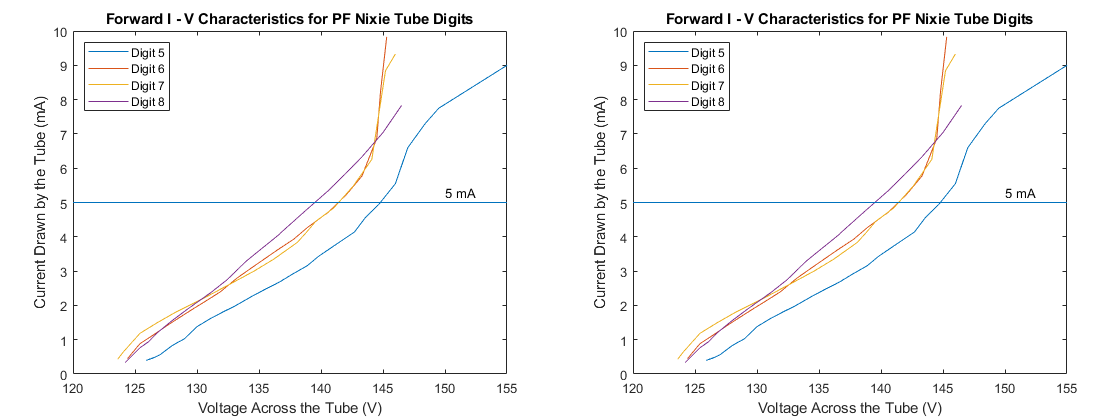
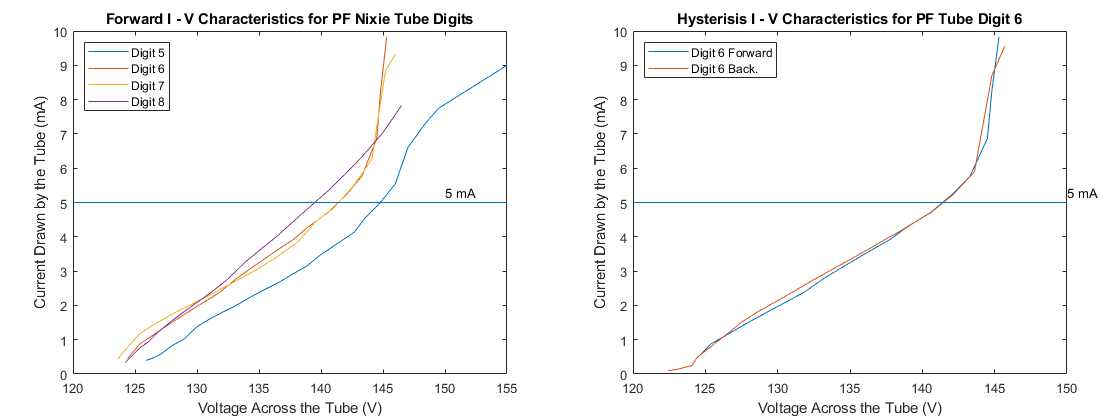
added blog post

diff --git a/_site/blog/nixieClock.html b/_site/blog/nixieClock.html
@@ -83,7 +83,7 @@
 			<i><p style="font-size:16px;color:Gray">Reading Time: <span class="reading-time" title="Estimated read time">
   
   
-    4 mins
+    5 mins
   
 </span>
 
@@ -151,21 +151,31 @@ This is the case since the feasibility of powering the clock from a computers US
 
 <p>In an initial experiment we blew out the 0 digit of a Nixie Tube due to our faulty method of recording its I-V characteristics. We didn’t include with the tube a current limiting series resistor. This caused a current overload through the 0 digit cathode rendering it useless. This tube is referred to as partially faulty (PF).</p>
 
-<p>We thought it would be an interesting exercise to observe if a problem with one cathode affected the I-V characteristics of any other digit. Based on comparisons with the data from the correct tube mentioned above, and the collated plot on the left, we can conclude that damage to one digit’s cathode does not affect the performance of other digits.</p>
+<p>We thought it would be an interesting exercise to observe if a problem with one cathode affected the I-V characteristics of any other digit. Based on comparisons with the data from the correct tube mentioned above, and the plot on the right comparing I-V characteristics for digit 6, we can conclude that damage to one digit’s cathode does not affect the performance of other digits.</p>
 
 <h4 id="hysterisis"><strong>Hysterisis</strong></h4>
-<p>In addition to the forward I-V characteristics (Increasing voltage) we also performed the retreating I-V characteristics. The retreating characteristics involved decreasing the voltage down from the highest V reading to the turn off voltage. We were inclined to document this behaviour since the tubes were seen showing <a href="https://en.wikipedia.org/wiki/Hysteresis">Hysteresis</a>.</p>
+<p align="center">
+  <img src="/assets/images/hyst.png" alt="Hyst1" height="300" />
+</p>
+<p align="center">
+  <img src="/assets/images/figure6.png" alt="Hyst2" height="300" />
+</p>
+
+<p>In addition to the forward I-V characteristics (Increasing voltage) we also performed retreating I-V characteristics. The retreating characteristics involved decreasing the voltage down from the highest V reading to the turn off voltage. We were inclined to document this behaviour since the tubes were seen showing <a href="https://en.wikipedia.org/wiki/Hysteresis">Hysteresis</a>.</p>
+
+<p>This means that the current requirement for a particular digit can be different depending on whether we are moving forward from the turn on voltage or decreasing the voltage applied. That being said, the current difference is quite low, in the (μA) range.</p>
 
 <h4 id="precious-tubes-need-holders"><strong>Precious Tubes need Holders</strong></h4>
-<ul>
-  <li>We did not want to hard solder them on</li>
-  <li>So we designed these holders</li>
-  <li>After breaking one of the legs on one of our spare tubes used for I-V characteristics, we didn’t try bending the legs of any of the tubes anymore.</li>
-</ul>
+<p align="center">
+  <img src="/assets/images/holders.png" alt="holders schematic" height="300" />
+</p>
+<p>Nixie Tubes are something of a novelty. So to keep the option of using these tubes in another project open, we wanted to make them socketable. On failing to find a viable off the shelf solution we decided to design our own tube holders as small PCBs with pin heads plugging onto the main controller board. The design is pictured above and the real life finished product is pictured below.</p>
 
 <p align="center">
   <img src="/assets/images/tube_holder.jpg" alt="holders" height="200" />
 </p>
+
+<p>Some of the tubes are noticeably bent and crooked on these holders. The reason for this was that the legs of the tubes were quite fragile and even a small amount of strain to the leg-glass joint could potentially break the terminal off. So, after breaking a leg on one of our spare tubes, we didn’t try bending the legs of any of the tubes.</p>
 
 <hr />
 <p><em>A more detailed desciption of the project along with schematics can be found in our <a href="/assets/docs/DD08_Design_Lab_report.pdf">project report</a></em><br />

diff --git a/_posts/blog/electronics/2020-06-16-nixie-clock.md b/_posts/blog/electronics/2020-06-16-nixie-clock.md
@@ -59,19 +59,31 @@ The voltage level available from USB is **5V** as is well known. The maximum cur
 
 In an initial experiment we blew out the 0 digit of a Nixie Tube due to our faulty method of recording its I-V characteristics. We didn't include with the tube a current limiting series resistor. This caused a current overload through the 0 digit cathode rendering it useless. This tube is referred to as partially faulty (PF).
 
-We thought it would be an interesting exercise to observe if a problem with one cathode affected the I-V characteristics of any other digit. Based on comparisons with the data from the correct tube mentioned above, and the collated plot on the left, we can conclude that damage to one digit's cathode does not affect the performance of other digits.
+We thought it would be an interesting exercise to observe if a problem with one cathode affected the I-V characteristics of any other digit. Based on comparisons with the data from the correct tube mentioned above, and the plot on the right comparing I-V characteristics for digit 6, we can conclude that damage to one digit's cathode does not affect the performance of other digits.
 
 #### **Hysterisis**
-In addition to the forward I-V characteristics (Increasing voltage) we also performed the retreating I-V characteristics. The retreating characteristics involved decreasing the voltage down from the highest V reading to the turn off voltage. We were inclined to document this behaviour since the tubes were seen showing [Hysteresis](https://en.wikipedia.org/wiki/Hysteresis).
+<p align="center">
+  <img src="{{site.baseurl}}/assets/images/hyst.png" alt="Hyst1" height='300'/>
+</p>
+<p align="center">
+  <img src="{{site.baseurl}}/assets/images/figure6.png" alt="Hyst2" height='300'/>
+</p>
+
+In addition to the forward I-V characteristics (Increasing voltage) we also performed retreating I-V characteristics. The retreating characteristics involved decreasing the voltage down from the highest V reading to the turn off voltage. We were inclined to document this behaviour since the tubes were seen showing [Hysteresis](https://en.wikipedia.org/wiki/Hysteresis).
+
+This means that the current requirement for a particular digit can be different depending on whether we are moving forward from the turn on voltage or decreasing the voltage applied. That being said, the current difference is quite low, in the (μA) range.
 
 #### **Precious Tubes need Holders**
-- We did not want to hard solder them on
-- So we designed these holders
-- After breaking one of the legs on one of our spare tubes used for I-V characteristics, we didn't try bending the legs of any of the tubes anymore.
+<p align="center">
+  <img src="{{site.baseurl}}/assets/images/holders.png" alt="holders schematic" height='300'/>
+</p>
+Nixie Tubes are something of a novelty. So to keep the option of using these tubes in another project open, we wanted to make them socketable. On failing to find a viable off the shelf solution we decided to design our own tube holders as small PCBs with pin heads plugging onto the main controller board. The design is pictured above and the real life finished product is pictured below.
 
 <p align="center">
   <img src="{{site.baseurl}}/assets/images/tube_holder.jpg" alt="holders" height='200'/>
 </p>
+
+Some of the tubes are noticeably bent and crooked on these holders. The reason for this was that the legs of the tubes were quite fragile and even a small amount of strain to the leg-glass joint could potentially break the terminal off. So, after breaking a leg on one of our spare tubes, we didn't try bending the legs of any of the tubes.
 
 ***
 *A more detailed desciption of the project along with schematics can be found in our [project report]({{site.baseurl}}/assets/docs/DD08_Design_Lab_report.pdf)*<br>
